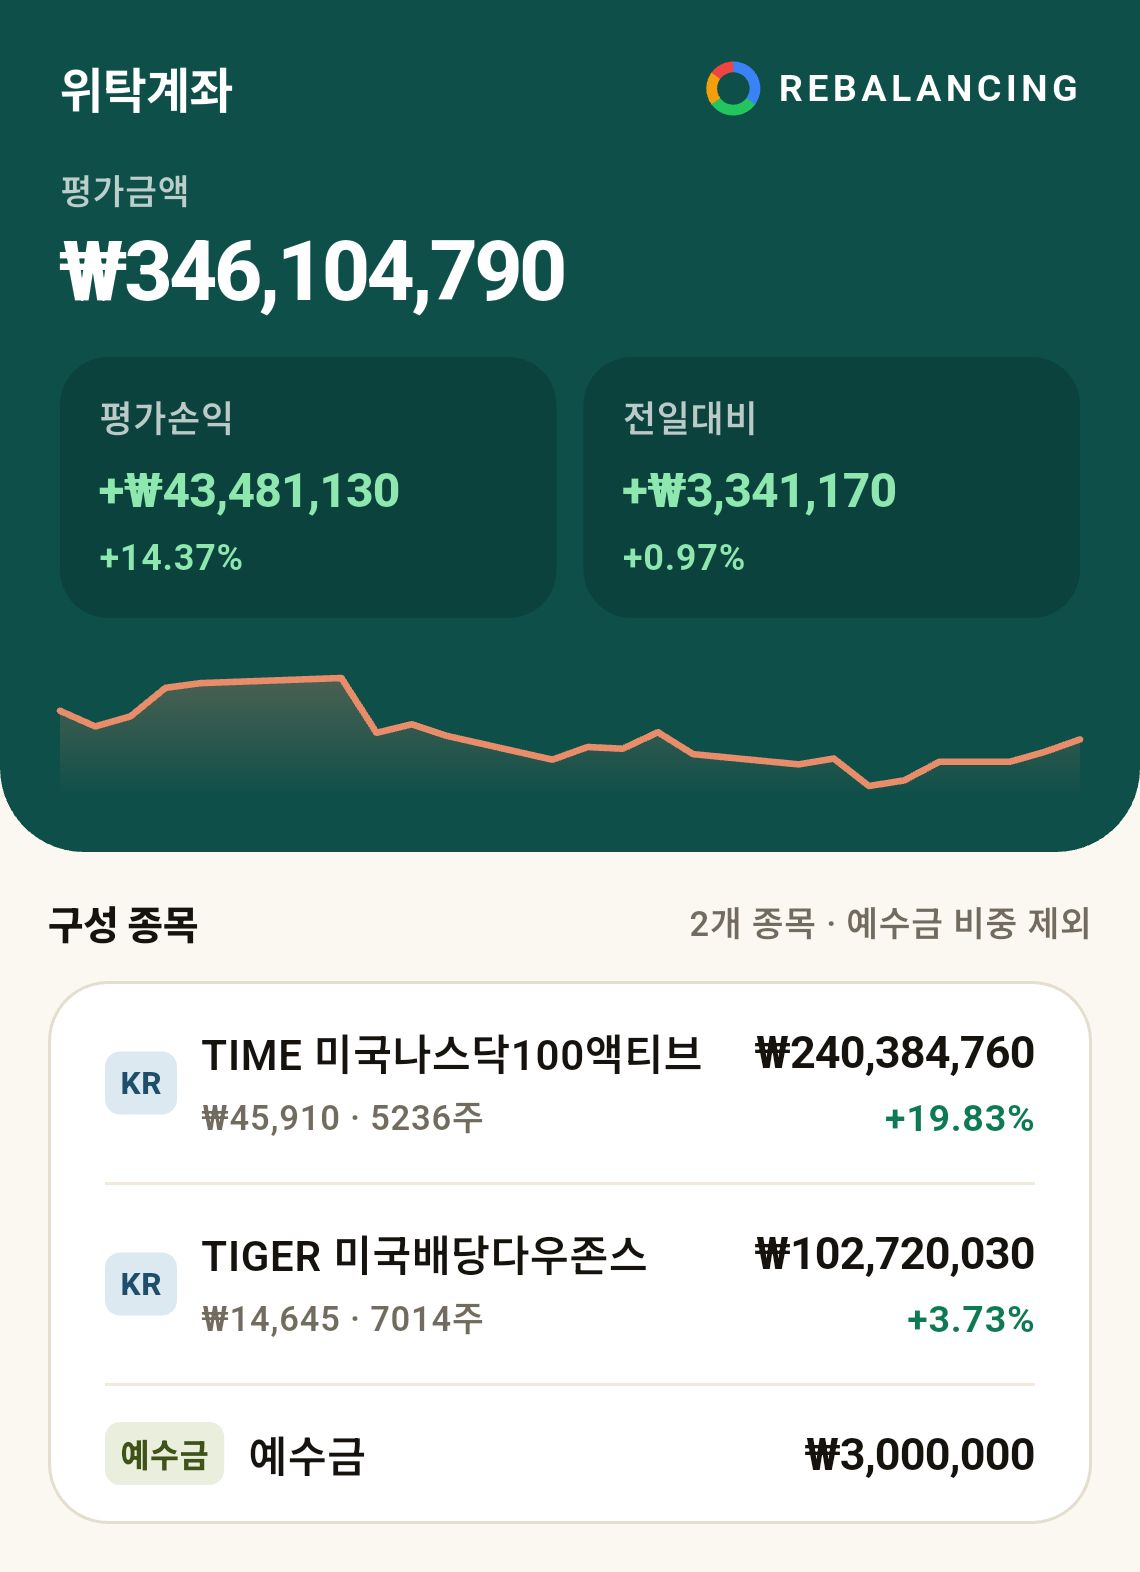
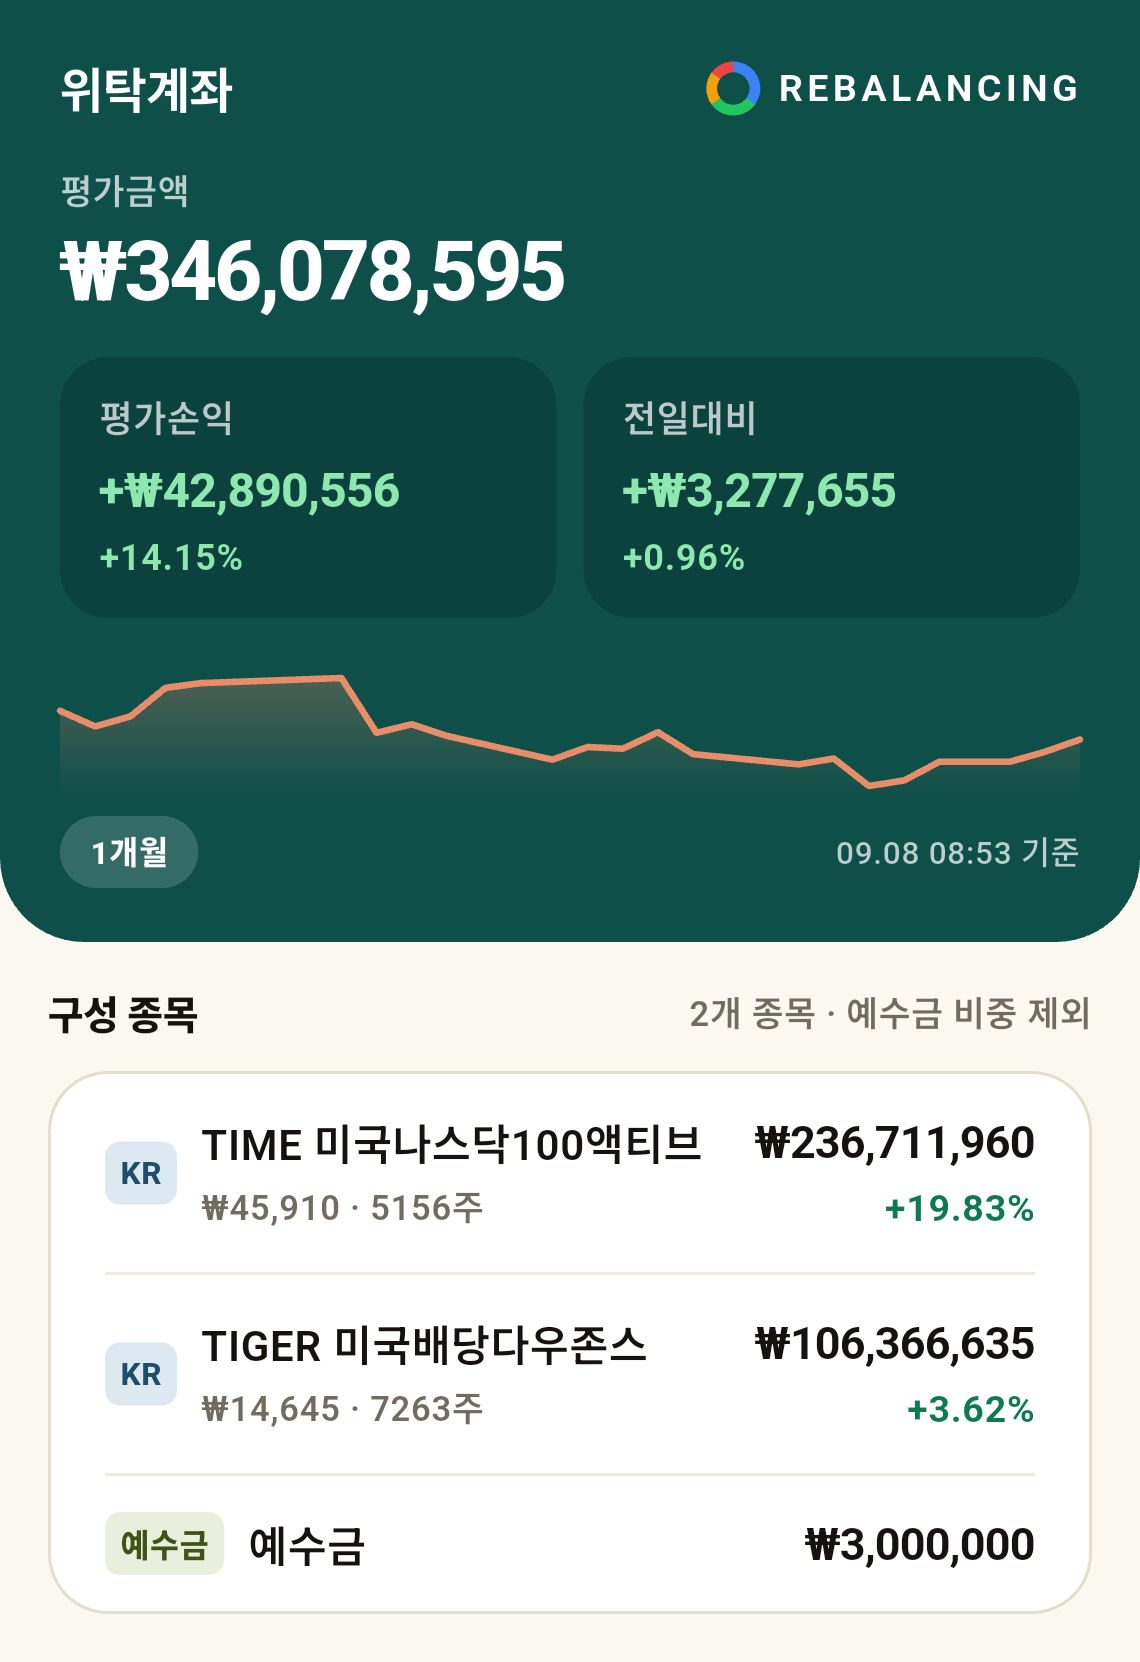
fix(capture): 추이선 아래 기간과 기준 시각을 그림에도 남긴다
캡처가 스파크라인만 그리고 그 아래 줄(`[1개월]`과 `09.08 07:37 기준`)을
버렸다. 화면은 `SparklinePanel`을 쓰는데 캡처는 그 속의 `AssetSparkline`만
꺼내 썼기 때문이다.

둘 다 그림에 있어야 한다. 그림은 남한테 보여주는 것이다.
  - 기간이 없으면 선이 일주일치인지 1년치인지 모른다. 모양만 남고 뜻이 없다.
  - 기준 시각이 없으면 받는 쪽이 낡은 값을 최신으로 읽는다.
    받는 쪽은 새로고침을 눌러 볼 수도 없다.

`SparklinePanel`에 `forCapture`를 넣어 화면과 그림이 **같은 위젯**을 쓴다.
따로 그리면 어느 한쪽만 고쳐도 눈치 못 챈 채 갈라진다 — 지금까지 캡처에서
반복된 모양이 정확히 그것이다.

캡처에서는 **누를 수 있다는 표시만** 뺀다. 기간 칩의 단계 막대는 「눌러서
다음으로」라는 뜻인데 그림에는 누를 데가 없다. 목록의 `>`를 그림에서 빼는
것과 같은 이유다. 이름표(`1개월`)는 그대로 남는다.

자산 탭의 기준 시각 계산도 `_captureAsOf`로 빼서 화면과 캡처가 같은 것을
쓴다. 새로고침에 실패했으면 그림에도 실패 사실이 함께 적힌다.

실기기 확인: 자산 탭(452→482px)·종목 상세(524→554px) 둘 다 줄이 들어갔다.

diff --git a/lib/screens/portfolio_list_screen.dart b/lib/screens/portfolio_list_screen.dart
@@ -18,7 +18,6 @@ import 'transaction_import_screen.dart';
 import '../widgets/app_logo.dart';
 import '../widgets/app_menu.dart';
 import '../widgets/collapsing_header.dart';
-import '../widgets/asset_sparkline.dart';
 import '../widgets/sparkline_panel.dart';
 import '../services/settlement_service.dart';
 import '../widgets/dashed_border_box.dart';
@@ -388,15 +387,21 @@ class PortfolioListScreenState extends State<PortfolioListScreen> {
             ],
             // 화면에 있는 것은 그림에도 있어야 한다. 추이선이 빠지면
             // 「지금 얼마인가」만 남고 「어떻게 왔는가」가 사라진다.
+            //
+            // 선 아래 **기간과 기준 시각도 같이 남긴다.** 그림은 남한테
+            // 보여주는 것이라, 며칠치 선인지·언제 시세인지 없으면 받는
+            // 쪽이 알 수가 없다.
             if (_history.length >= 2) ...[
               const SizedBox(height: 14),
-              AssetSparkline(
+              SparklinePanel(
+                forCapture: true,
                 points: _history,
+                period: _sparkPeriod,
+                asOf: _captureAsOf(portfolios),
                 // 화면과 같은 규칙 — 올랐으면 상승색, 내렸으면 하락색
                 color: _history.last.totalKrw >= _history.first.totalKrw
                     ? pnlColors.onBrandPositive
                     : pnlColors.onBrandNegative,
-                height: 46,
               ),
             ],
           ]),
@@ -734,18 +739,6 @@ class PortfolioListScreenState extends State<PortfolioListScreen> {
     final hasForeign = portfolios.any(
         (p) => p.currency == 'USD' || p.items.any((i) => i.market == 'US'));
 
-    final oldestUpdated = portfolios
-        .where((p) => p.lastUpdated != null)
-        .map((p) => p.lastUpdated!)
-        .fold<int?>(null, (m, t) => m == null || t < m ? t : m);
-    final timeStr = oldestUpdated == null
-        ? l10n.neverUpdated
-        : () {
-            final d = DateTime.fromMillisecondsSinceEpoch(oldestUpdated);
-            return '${d.month.toString().padLeft(2, '0')}.${d.day.toString().padLeft(2, '0')} '
-                '${d.hour.toString().padLeft(2, '0')}:'
-                '${d.minute.toString().padLeft(2, '0')}';
-          }();
 
     return Column(
       crossAxisAlignment: CrossAxisAlignment.start,
@@ -815,10 +808,7 @@ class PortfolioListScreenState extends State<PortfolioListScreen> {
             _loadHistory();
           },
           building: context.watch<PortfolioProvider>().backfilling,
-          // 갱신에 실패했으면 시각만 적지 않고 실패 사실을 함께 적는다
-          asOf: context.watch<PortfolioProvider>().lastRefreshFailed > 0
-              ? l10n.refreshFailedNote(timeStr)
-              : (isKo ? '$timeStr 기준' : 'as of $timeStr'),
+          asOf: _captureAsOf(portfolios),
           color: _history.length >= 2 &&
                   _history.last.totalKrw >= _history.first.totalKrw
               ? pnlColors.onBrandPositive
@@ -826,6 +816,33 @@ class PortfolioListScreenState extends State<PortfolioListScreen> {
         ),
       ],
     );
+  }
+
+  /// 스파크라인 아래에 적을 「언제 시세인가」.
+  ///
+  /// 화면과 캡처가 **같은 것을 쓴다.** 따로 계산하면 어느 한쪽만 고쳐도
+  /// 눈치채지 못한 채 둘이 갈라진다 — 지금까지 캡처에서 반복된 모양이다.
+  ///
+  /// 갱신에 실패했으면 시각만 적지 않고 실패 사실을 함께 적는다. 그림은
+  /// 남한테 보내는 것이고 받는 쪽은 새로고침을 눌러 볼 수도 없다. 낡은
+  /// 시세를 최신인 줄 알고 보게 두면 안 된다.
+  String _captureAsOf(List<Portfolio> portfolios) {
+    final l10n = context.l10n;
+    final isKo = Localizations.localeOf(context).languageCode == 'ko';
+    final oldest = portfolios
+        .where((p) => p.lastUpdated != null)
+        .map((p) => p.lastUpdated!)
+        .fold<int?>(null, (m, t) => m == null || t < m ? t : m);
+    if (oldest == null) return l10n.neverUpdated;
+    final d = DateTime.fromMillisecondsSinceEpoch(oldest);
+    final time = '${d.month.toString().padLeft(2, '0')}.'
+        '${d.day.toString().padLeft(2, '0')} '
+        '${d.hour.toString().padLeft(2, '0')}:'
+        '${d.minute.toString().padLeft(2, '0')}';
+    if (context.read<PortfolioProvider>().lastRefreshFailed > 0) {
+      return l10n.refreshFailedNote(time);
+    }
+    return isKo ? '$time 기준' : 'as of $time';
   }
 
   /// 딥그린 위 손익 타일 (평가손익 · 전일대비)

diff --git a/lib/widgets/sparkline_panel.dart b/lib/widgets/sparkline_panel.dart
@@ -39,7 +39,19 @@ enum SparkPeriod {
 class SparklinePanel extends StatelessWidget {
   final List<AssetPoint> points;
   final SparkPeriod period;
-  final ValueChanged<SparkPeriod> onPeriodChanged;
+
+  /// 캡처용일 때는 안 쓴다.
+  final ValueChanged<SparkPeriod>? onPeriodChanged;
+
+  /// 저장·공유할 그림에 들어갈 것인가.
+  ///
+  /// **기간과 기준 시각은 그림에도 남긴다.** 그림은 남한테 보여주는 것이라,
+  /// 그 숫자가 언제 것인지·선이 며칠치인지 없으면 받는 쪽이 알 수가 없다.
+  ///
+  /// 대신 **누를 수 있다는 표시는 뺀다** — 기간 칩의 단계 막대는 「눌러서
+  /// 다음으로」라는 뜻인데, 그림에서는 누를 데가 없다. 목록의 `>`를 그림에서
+  /// 빼는 것과 같은 이유다.
+  final bool forCapture;
 
   /// 우측 아래에 적을 기준 시각 (`08.17 09:41 기준`).
   final String asOf;
@@ -57,10 +69,11 @@ class SparklinePanel extends StatelessWidget {
     super.key,
     required this.points,
     required this.period,
-    required this.onPeriodChanged,
+    this.onPeriodChanged,
     required this.asOf,
     required this.color,
     this.building = false,
+    this.forCapture = false,
   });
 
   /// 선을 그릴 만큼 점이 있는가.
@@ -73,18 +86,22 @@ class SparklinePanel extends StatelessWidget {
       children: [
         // 그래프 자체도 누르면 다음 기간으로 간다 — 증권 앱들이 쓰는 방식이고,
         // 작은 칩보다 훨씬 큰 과녁이다.
-        GestureDetector(
-          onTap: () => onPeriodChanged(period.next),
-          behavior: HitTestBehavior.opaque,
-          child: SizedBox(
+        Builder(builder: (context) {
+          final chart = SizedBox(
             height: 46,
             // 채우는 중에도 이미 있는 선은 계속 보여준다 — 지웠다 그리면
             // 깜빡이고, 사용자는 뭐가 사라졌다고 읽는다.
             child: _hasEnough
                 ? AssetSparkline(points: points, color: color)
                 : _buildPlaceholder(context),
-          ),
-        ),
+          );
+          if (forCapture) return chart;
+          return GestureDetector(
+            onTap: () => onPeriodChanged?.call(period.next),
+            behavior: HitTestBehavior.opaque,
+            child: chart,
+          );
+        }),
         const SizedBox(height: 6),
         Row(children: [
           _buildPeriodButton(context),
@@ -224,12 +241,28 @@ class SparklinePanel extends StatelessWidget {
     final now = periodLabel(context, period);
     final next = periodLabel(context, period.next);
 
+    // 그림에서는 누를 수 없다. 단계 막대와 과녁 여백을 빼고 이름표만 남긴다.
+    if (forCapture) {
+      return Container(
+        padding: const EdgeInsets.fromLTRB(10, 4, 10, 4),
+        decoration: BoxDecoration(
+          color: Colors.white.withValues(alpha: 0.16),
+          borderRadius: BorderRadius.circular(DS.chipRadius),
+        ),
+        child: Text(now,
+            style: const TextStyle(
+                fontSize: DS.caption,
+                fontWeight: FontWeight.w800,
+                color: Colors.white)),
+      );
+    }
+
     return Semantics(
       button: true,
       label: isKo ? '기간 $now. 누르면 $next' : 'Period $now. Tap for $next',
       excludeSemantics: true,
       child: GestureDetector(
-        onTap: () => onPeriodChanged(period.next),
+        onTap: () => onPeriodChanged?.call(period.next),
         behavior: HitTestBehavior.opaque,
         child: Padding(
           // 과녁을 벌린다 — 칩 자체는 작아도 누르는 자리는 넓게

diff --git a/test/sparkline_capture_test.dart b/test/sparkline_capture_test.dart
@@ -1,0 +1,79 @@
+import 'dart:io';
+
+import 'package:flutter/material.dart';
+import 'package:flutter_test/flutter_test.dart';
+
+import 'package:rebalancing_app/l10n/app_localizations.dart';
+import 'package:rebalancing_app/services/asset_history_service.dart';
+import 'package:rebalancing_app/widgets/sparkline_panel.dart';
+
+/// 캡처에 들어가는 추이선은 **기간과 기준 시각을 달고 나간다.**
+///
+/// 그림은 남한테 보여주는 것이다. 선만 있고 며칠치인지 없으면 일주일인지
+/// 1년인지 모르고, 언제 시세인지 없으면 받는 쪽이 낡은 값을 최신으로 읽는다.
+/// 받는 쪽은 새로고침을 눌러 볼 수도 없다.
+void main() {
+  List<AssetPoint> points() {
+    final base = DateTime(2026, 8, 1);
+    return [
+      for (var i = 0; i < 10; i++)
+        AssetPoint(base.add(Duration(days: i)), 100.0 + i),
+    ];
+  }
+
+  Future<void> pump(WidgetTester tester, {required bool forCapture}) async {
+    await tester.pumpWidget(MaterialApp(
+      locale: const Locale('ko'),
+      localizationsDelegates: AppLocalizations.localizationsDelegates,
+      supportedLocales: AppLocalizations.supportedLocales,
+      home: Scaffold(
+        body: SparklinePanel(
+          forCapture: forCapture,
+          points: points(),
+          period: SparkPeriod.month,
+          onPeriodChanged: forCapture ? null : (_) {},
+          asOf: '09.08 07:37 기준',
+          color: const Color(0xFF4CAF50),
+        ),
+      ),
+    ));
+  }
+
+  testWidgets('캡처에도 기간과 기준 시각이 남는다', (tester) async {
+    await pump(tester, forCapture: true);
+
+    expect(find.text('1개월'), findsOneWidget,
+        reason: '며칠치 선인지 없으면 선 모양만 남고 뜻이 없다');
+    expect(find.text('09.08 07:37 기준'), findsOneWidget,
+        reason: '언제 시세인지 없으면 받는 쪽이 낡은 값을 최신으로 읽는다');
+  });
+
+  testWidgets('캡처에서는 누를 수 있다는 표시를 뺀다', (tester) async {
+    await pump(tester, forCapture: true);
+
+    // 기간 칩의 단계 막대는 「눌러서 다음으로」라는 뜻이다.
+    // 그림에는 누를 데가 없다 — 목록의 `>`를 그림에서 빼는 것과 같다.
+    expect(find.byKey(const ValueKey('sparkLevel0')), findsNothing);
+    expect(find.byType(GestureDetector), findsNothing);
+  });
+
+  testWidgets('화면에서는 눌러서 기간을 바꿀 수 있다', (tester) async {
+    await pump(tester, forCapture: false);
+
+    expect(find.text('1개월'), findsOneWidget);
+    expect(find.byKey(const ValueKey('sparkLevel0')), findsOneWidget);
+  });
+
+  test('캡처가 추이선을 맨몸으로 그리지 않는다', () {
+    // `AssetSparkline`을 직접 쓰면 선만 나오고 기간·기준 줄이 빠진다.
+    // 실제로 그렇게 나가서 지적을 받았다.
+    for (final path in const [
+      'lib/screens/portfolio_list_screen.dart',
+      'lib/screens/portfolio_detail_screen.dart',
+    ]) {
+      final s = File(path).readAsStringSync();
+      expect(s.contains('AssetSparkline('), isFalse,
+          reason: '$path 가 추이선을 맨몸으로 그린다 — SparklinePanel을 쓴다');
+    }
+  });
+}

diff --git a/lib/screens/portfolio_detail_screen.dart b/lib/screens/portfolio_detail_screen.dart
@@ -28,7 +28,6 @@ import '../services/ad_service.dart';
 import '../widgets/bottom_banner_ad.dart';
 import '../widgets/brand_header.dart';
 import '../widgets/app_menu.dart';
-import '../widgets/asset_sparkline.dart';
 import '../widgets/cash_edit_sheet.dart';
 import '../widgets/collapsing_header.dart';
 import '../widgets/dashed_border_box.dart';
@@ -387,15 +386,21 @@ class _PortfolioDetailScreenState extends State<PortfolioDetailScreen> {
                 if (hasDay) tile(isKo ? '전일대비' : 'Today', day, dayPct),
               ]),
             ],
-            // 화면에 있는 것은 그림에도 있어야 한다.
+            // 화면에 있는 것은 그림에도 있어야 한다 — 선 아래 **기간과
+            // 기준 시각도 같이.** 그림은 남한테 보여주는 것이라, 며칠치
+            // 선인지·언제 시세인지 없으면 받는 쪽이 알 수가 없다.
             if (_history.length >= 2) ...[
               const SizedBox(height: 14),
-              AssetSparkline(
+              SparklinePanel(
+                forCapture: true,
                 points: _history,
+                period: _sparkPeriod,
+                asOf: isKo
+                    ? '${_fmtTimeShort(pf.lastUpdated)} 기준'
+                    : 'as of ${_fmtTimeShort(pf.lastUpdated)}',
                 color: _history.last.totalKrw >= _history.first.totalKrw
                     ? pnlColors.onBrandPositive
                     : pnlColors.onBrandNegative,
-                height: 46,
               ),
             ],
           ]),
